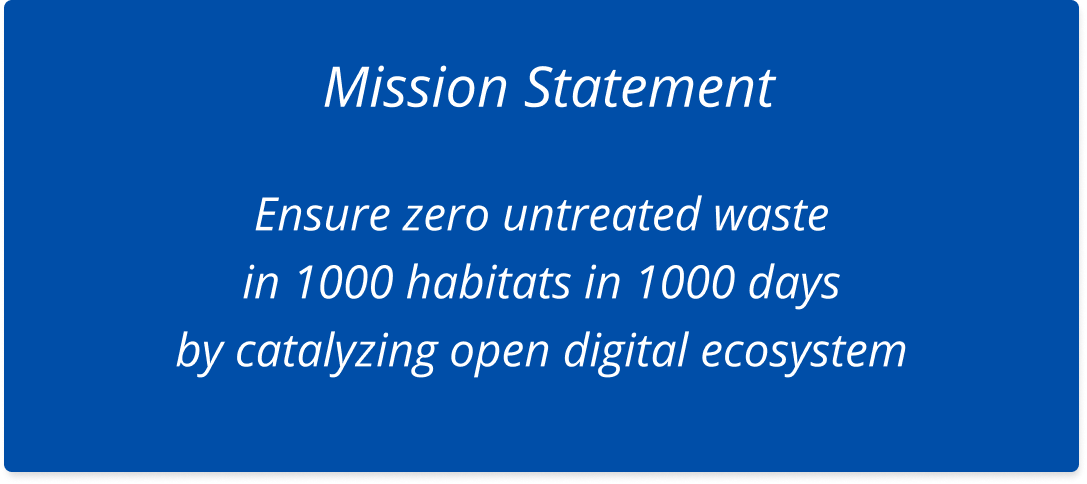
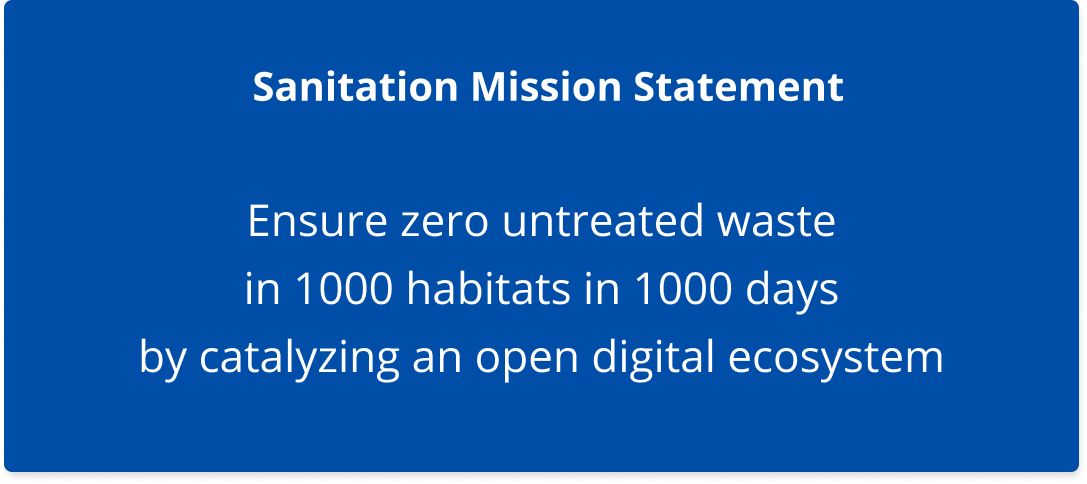
GitBook: [#20] Adding Operalization Strategy

diff --git a/mission/execution-plan.md b/mission/execution-plan.md
@@ -1,2 +1,47 @@
-# Execution Plan
+# Operationalization Strategy
 
+A multi-pronged approach, which includes both open platforms and other non-technology components, is critical for creating a larger systemic transformation of the FSM sector. It is important to note that four out of these five steps are non-technology - they include generating demand and adoption, designing programs for impact and sustainability, putting together a coalition of ecosystem actors, building the capacity of the ecosystem to solve at scale, and finally institutionalization of the mission in the federal government.
+
+The five steps of this approach are: 
+
+1. Create a shared Narrative and ecosystem coalitions 
+2. Design and build the foundational national platform
+3. Create a scale@speed exemplar of transformation
+4. Enable a national-scale open ecosystem to create societal impact 
+5. Institutionalisation for @ scale-adoption and sustainability
+
+### A Shared Narrative and Ecosystem Coalitions
+
+Catalyzing and driving the imagination of national digital infrastructure for the FSM ecosystem will require a focus on building a shared narrative with key stakeholders across industry, academia, civil society, and governments on how a shared digital infrastructure can enable transformation and collaborative problem-solving. This goes beyond advocating new forms of digital technology. eGov uses a co-creative approach to develop its offerings across the spectrum of digital infrastructure (platforms), solutions (applications), and state programs (vehicles for delivering real-world impact).
+
+* While based on our current discussions we have been able to arrive at [a view of the pivotal problems](concept-note/approach.md) we need to work with partners like CPR-SCIFI, IIHS, WASH Institute et al to reformulate current approaches to FSM using the digital infrastructure.
+* Our approach is to have the primary government-facing partners present evidence-based policy recommendations by themselves until our support is needed. When such support is needed we do join them in the relevant meetings to resolve issues and build consensus.
+* The platform approach is amenable to solving a variety of problems across the ecosystem, and hence some of the most wicked sanitation problems will become solvable when addressed through this approach
+
+eGov has a two-pronged approach to communicating these messages: 
+
+* Direct to Government Communications - Preferably in coordination with the state’s FSM partners
+* Public Forums, Op-Eds, and Conferences - we work closely with a variety of thought leaders to shape conferences on specific topics of governance, create forums for thought leaders to convene, discuss and converge, and ensure that these messages are embedded in public discourse on the topic. We will apply this approach to FSM as well.
+
+### Design and build the foundational national platform
+
+This entails deep work with the ecosystem to understand the pivotal problems and how they manifest in various contexts (geography, stakeholders, communities) and abstract the components of the platform that can work across India. The key areas of work are :
+
+* The design of various layers of the platform: Core Data Infrastructure, Core Services, and Applications layer.
+  * Core Data Infrastructure layer forms the base of the stack and comprises data registries, a shared source of truth, and data infrastructure 
+  * Core Services layer that houses context-neutral functional services which can be leveraged to build sanitation solutions 
+  * Applications layer provides context-sensitive solutions required to implement large-scale sanitation programs
+* Development of key building blocks of the platform (principles, standards, and digital artefacts). These are the more fundamental context-invariant components of the shared digital infrastructure. 
+* Build reference solutions (applications) on the platform for the most pressing problem
+
+### Create a scale@speed exemplar of transformation
+
+In addition to conceptual thinking, it is crucial to demonstrate the approach in action. This will involve working with one lead state to build a reference implementation working with the local ecosystem and market players. This will be designed, tracked, and implemented, so that the interplay of FSM policies, institutions, and technology can be captured effectively and used to illustrate the approach in practice. The idea here is to drive re-imagination and accelerate adoption by demonstrating value creation and impact. This will also strengthen the evidence-based recommendations (from concept to actual results) and accelerate the national policy level push. In addition, it creates a pull in the market for commercial players to participate.
+
+### Enable a national-scale open ecosystem to create societal impact 
+
+Participation of the market players in the national rollout and building innovations is critical for sustainability and scale. This creates the requisite system capacity and provides impetus to the market forces to build local solutions. We will work with commercial enterprises as well as local players and entrepreneurs in helping them build local solutions on the FSM platform. We believe the key principles of engaging with the ecosystem are to ensure open and inclusive systems that make it easier for all stakeholders to participate, coordinate, and communicate; to build trust between stakeholders to improve the quality of both the interactions and the outcomes achieved; and to champion a culture of data-driven decision-making among all stakeholders, supported by data from the platform itself.
+
+### Institutionalisation for @ scale-adoption and sustainability
+
+For the long-term sustainability of the initiative, it is important to institutionalize the shared digital infrastructure in a suitable public institution which has the locus standi and the capabilities to make it available at a national scale. Given the glacial process by which governments create the needed institutional architecture and capabilities, we will undertake effort for this early on.

diff --git a/mission/mission-outcomes/README.md b/mission/mission-outcomes/README.md
@@ -1,10 +1,10 @@
-# Mission and Outcomes
+# Mission Outcomes
 
-![eGov's Mission Statement](<../../../../.gitbook/assets/Mission Statement v1 (1).png>)
+![](<../../.gitbook/assets/Mission Statement v1 (1).png>)
 
 #### Pillars and Impact
 
-Mission will holistically look at the Pillars of Sanitation and the Impact across the pillars
+The Mission will holistically look at the Pillars of Sanitation and the Impact across the pillars
 
 |     Pillars of Sanitation     |                                                  Impact                                                  |
 | :---------------------------: | :------------------------------------------------------------------------------------------------------: |
@@ -17,7 +17,7 @@ Mission will holistically look at the Pillars of Sanitation and the Impact acros
 
 ### Addressing Pivotal Problems in FSSM
 
-
+Our approach to addressing [pivotal problems](../concept-note/approach.md):
 
 **Absence of well-defined standards for sanitation**
 
@@ -50,7 +50,7 @@ The digital infrastructure will enable to answer questions like “how did it en
 
 ### Outcomes
 
-Keeping the pillars of sanitation and the areas of impact in mind, Mission will focus on driving these outcomes
+While addressing the pivotal problems, Mission will focus on driving these outcomes:
 
 | Sanitation Mission Outcomes                                                                                                                                                                                                                                                                                                                                                                                                                       |
 | ------------------------------------------------------------------------------------------------------------------------------------------------------------------------------------------------------------------------------------------------------------------------------------------------------------------------------------------------------------------------------------------------------------------------------------------------- |
@@ -59,22 +59,3 @@ Keeping the pillars of sanitation and the areas of impact in mind, Mission will 
 | <p><strong>Active tracking and management of FSSM operations to drive efficiency, efficacy, and transparency </strong></p><p></p><p>Tracking and managing faecal sludge through the lifecycle for planning, optimizing usage of physical infrastructure and improving regulations and processes to enable compliance.</p>                                                                                                                         |
 | <p><strong>Efficient marketplaces across the sanitation value chain </strong></p><p></p><p>Effective matching of the supply and demand, operational data to inform rationalized pricing, and sustainability by leveraging data and services to refine operations.</p>                                                                                                                                                                             |
 | <p><strong>Data-driven decision-making and policy design </strong></p><p></p><p>Access to operational and systemic data in anonymized and aggregated forms for senior decision-makers at all levels of government, as well as for key stakeholders and influencers in the FSM ecosystem.</p>                                                                                                                                                      |
-
-****
-
-****
-
-****
-
-
-
-
-
-
-
-
-
-
-
-
-

diff --git a/mission/our-vision-for-sanitation.md b/mission/our-vision-for-sanitation.md
@@ -1,14 +1,14 @@
-# Envisioning a new way of Sanitation
+# Our Vision for Sanitation
 
 ### _<mark style="color:blue;">**Zero deaths, disease, and environmental contamination resulting from poor sanitation**</mark>_ _****_
 
-The Sanitation Mission at eGov aims to make this vision a reality for every citizen across India. We believe that the core of the sanitation problem is that current systems fail to deliver against this vision and hence the system itself needs to be progressively reformed to achieve this vision.
+**The Sanitation Mission at eGov** aims to make this vision a reality for every citizen across India. We believe that the core of the sanitation problem is that current systems fail to deliver against this vision and hence the system itself needs to be progressively reformed to achieve this vision.
 
-#### Why Now? - A renewed focus on Health and Sanitation
+### Why Now? - A renewed focus on Health and Sanitation
 
 There is high energy in the sanitation ecosystem right now, which has received positive attention in line with the renewed government focus on health in face of the COVID-19 pandemic. In Budget 2021, Health & Wellbeing was clearly the most important focus among the six pillars of the Budget outlined by the finance minister. She announced ₹2.83 lakh crore for the health and wellness sector, an increase of 137% over last year. Similar developments were seen for the sanitation sector such as the announcement of dedicated funding to SBM Urban - 2.0 with a clear focus on complete FSSM in the SBM-Urban and dedicated funding of ₹ 1.41 lakh crore. The development of national and state-level sanitation policies and programs. With over 700+ Faecal Sludge Treatment Plants (FSTPs) being committed, (of which 220 are under construction and 150 are operational), along with commitments from states towards the construction of FSTPs, sanitation has achieved a definitive momentum.
 
-#### Why us? - Impact at Scale and Speed
+### Why us? - Impact at Scale and Speed
 
 |                                                              3 Layers of eGov's Operating Model                                                              |
 | :----------------------------------------------------------------------------------------------------------------------------------------------------------: |

diff --git a/SUMMARY.md b/SUMMARY.md
@@ -2,14 +2,14 @@
 
 * [DISHHA](README.md)
 * [Mission](mission/README.md)
-  * [FSSM Position Note](mission/concept-note/README.md)
+  * [Faceal Sludge and Septage Management](mission/concept-note/README.md)
     * [Background and Landscape](mission/concept-note/untitled.md)
     * [FSSM - a complex system](mission/concept-note/background.md)
     * [Pivotal Problems in FSSM](mission/concept-note/approach.md)
-  * [Envisioning a new way of Sanitation](mission/envisioning-a-new-way-of-sanitation/README.md)
-    * [Mission and Outcomes](mission/envisioning-a-new-way-of-sanitation/mission-and-outcomes.md)
-    * [Benefits for the Ecosystem](mission/envisioning-a-new-way-of-sanitation/benefits-for-the-ecosystem.md)
-  * [Operationalization](mission/execution-plan.md)
+  * [Our Vision for Sanitation](mission/our-vision-for-sanitation.md)
+  * [Mission Outcomes](mission/mission-outcomes/README.md)
+    * [Benefits for the Ecosystem](mission/mission-outcomes/benefits-for-the-ecosystem.md)
+  * [Operationalization Strategy](mission/execution-plan.md)
   * [Mission Timelines](mission/mission-timelines.md)
   * [Glossary](mission/glossary.md)
 * [Platform](platform/README.md)

diff --git a/mission/concept-note/README.md b/mission/concept-note/README.md
@@ -1,2 +1,3 @@
-# FSSM Position Note
+# Faceal Sludge and Septage Management
 
+{% embed url="https://youtu.be/FiZN8sdlPbM" %}

diff --git a/mission/README.md b/mission/README.md
@@ -1,3 +1,2 @@
 # Mission
 
-{% embed url="https://youtu.be/FiZN8sdlPbM" %}
